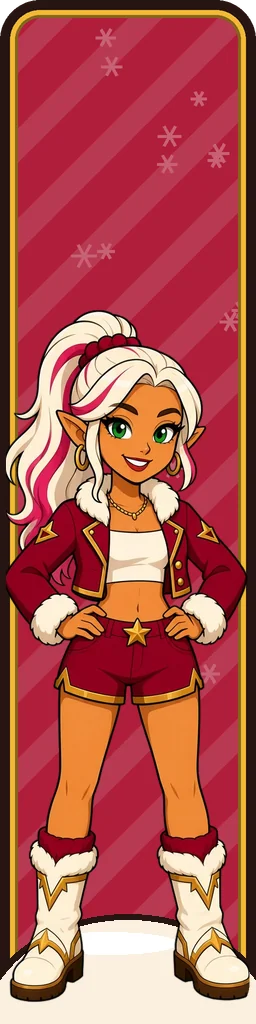
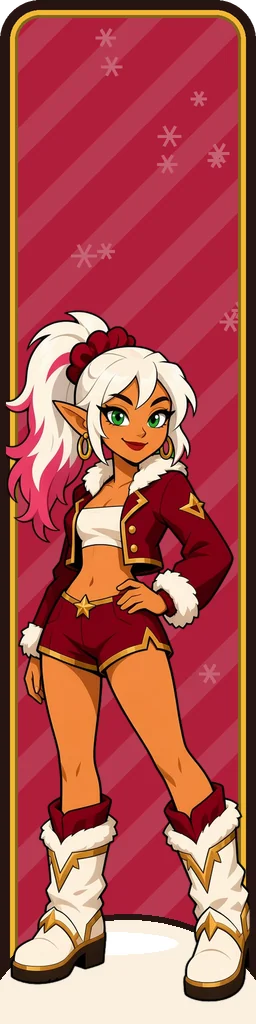
Roxy: keep the original hip-hand stance, turn only her head and eyes to the player; refit the rig and the per-foot contact shadow

diff --git a/frontend/apps/elfhaus/src/game/roxyrig/rigChalet.ts b/frontend/apps/elfhaus/src/game/roxyrig/rigChalet.ts
@@ -8,11 +8,11 @@ import { loadTex } from '../scene/load';
 import type { RoxyAdapter, RoxyFace, RoxyGrade } from './types';
 
 const SRC = 'assets/rig/elf_roxy.webp';
-const W = 429, H = 1166, GROUND = 1156, CX = 220;          // cutout px; origin between the feet on the ground row
-const NECK = { x: 228, y: 300 }, HIPS = 560, CHEST = [330, 470] as const;
-const HAIR = { x1: 130, y1: 470 };                           // ponytail box (screen left of her head)
+const W = 443, H = 1166, GROUND = 1155, CX = 220;          // cutout px; origin between the feet on the ground row
+const NECK = { x: 232, y: 292 }, HIPS = 560, CHEST = [310, 450] as const;
+const HAIR = { x1: 140, y1: 360 };                           // ponytail box (screen left of her head)
 // eye openings (cutout px): x, y (lid top), w, h; R = her left (screen right), winks
-const EYES = [{ x: 170, y: 187, w: 57, h: 36 }, { x: 250, y: 190, w: 47, h: 37 }];
+const EYES = [{ x: 170, y: 163, w: 54, h: 38 }, { x: 253, y: 170, w: 42, h: 34 }];
 const SKIN = 0xe9874a, INK = 0x26140f, LASH = 0x1a0d0a;
 const VX = 10, VY = 36;
 
@@ -28,8 +28,8 @@ export async function createRoxy(): Promise<RoxyAdapter> {
 	const view = new Container(), body = new Container();
 	// contact shadow under the boots: a soft outer pool + a darker core, offset a touch right (the fire lights from the left)
 	const shadowG = new Graphics();
-	for (let k = 0; k < 6; k++) { const t = k / 5; shadowG.ellipse(14 - 6 * t, -2 - 2 * t, 250 - 70 * t, 34 - 14 * t).fill({ color: 0x0c0402, alpha: 0.2 }); }
-	for (const fx of [-92, 104]) for (let k = 0; k < 3; k++) shadowG.ellipse(fx, -6, 74 - 12 * k, 15 - 3 * k).fill({ color: 0x080201, alpha: 0.24 });
+	for (let k = 0; k < 6; k++) { const t = k / 5; shadowG.ellipse(6 - 4 * t, -12 - 2 * t, 250 - 70 * t, 38 - 14 * t).fill({ color: 0x0c0402, alpha: 0.2 }); }
+	for (const [fx, fy] of [[-142, -34], [145, -4]]) for (let k = 0; k < 3; k++) shadowG.ellipse(fx, fy, 72 - 12 * k, 15 - 3 * k).fill({ color: 0x080201, alpha: 0.24 });
 	const mesh = new MeshPlane({ texture: tex, verticesX: VX, verticesY: VY });
 	mesh.position.set(-CX, -GROUND);
 	body.addChild(mesh);
